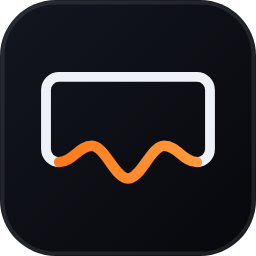
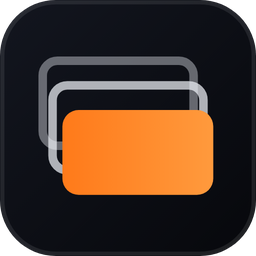
New mark: a stacked deck with the front slide lit

Changed region(s): [[0.125, 0.2188, 0.8438, 0.7812]]

diff --git a/ui.html b/ui.html
@@ -99,14 +99,15 @@
   <div class="brand">
     <svg class="mark" viewBox="0 0 64 64" fill="none" aria-hidden="true">
       <defs>
-        <linearGradient id="scWave" x1="0" y1="0" x2="1" y2="0">
+        <linearGradient id="scCard" x1="0" y1="0" x2="1" y2="0">
           <stop offset="0" stop-color="#ff7a1a"/><stop offset="1" stop-color="#ff9a3d"/>
         </linearGradient>
       </defs>
-      <path d="M 11 45 A 4 4 0 0 1 7 41 L 7 23 A 4 4 0 0 1 11 19 L 53 19 A 4 4 0 0 1 57 23 L 57 41 A 4 4 0 0 1 53 45"
-            stroke="currentColor" stroke-width="3" stroke-linecap="round"/>
-      <path d="M 53 45 C 49 45 47 40 43 40 C 39 40 36 50 32 50 C 28 50 25 40 21 40 C 17 40 15 45 11 45"
-            stroke="url(#scWave)" stroke-width="3.2" stroke-linecap="round"/>
+      <rect x="6" y="11.5" width="46" height="25.9" rx="4.5"
+            stroke="currentColor" stroke-width="2.6" stroke-opacity="0.4"/>
+      <rect x="9" y="19" width="46" height="25.9" rx="4.5"
+            stroke="currentColor" stroke-width="2.6" stroke-opacity="0.72"/>
+      <rect x="12" y="26.5" width="46" height="25.9" rx="5" fill="url(#scCard)"/>
     </svg>
     <h1>Slide<span>Cast</span></h1>
   </div>

diff --git a/README.md b/README.md
@@ -250,9 +250,9 @@ still exits 0, so the path is made absolute and the result is checked.
 
 ## Logo
 
-The mark is a slide that ends in a waveform. The frame stops at the bottom
-corners and the voice carries the edge between them, so one outline says
-both halves of the name rather than drawing a screen and a speaker.
+The mark is a deck: three 16:9 slides of the same size, the front one lit
+orange. The cards lean up-left rather than up-right, which is what keeps the
+silhouette from reading as a folder icon.
 
 | File | Use |
 |---|---|
@@ -261,10 +261,12 @@ both halves of the name rather than drawing a screen and a speaker.
 | `logo.svg` | Horizontal lockup, mark plus wordmark. Wordmark is `currentColor` and orange. |
 | `icons/*.png` | Rasters at 512/256/128/64/32. `icon`, plus `mark-on-dark` and `mark-on-light`. |
 
-Regenerate the PNGs by rendering the SVGs in headless Chrome with
-`--default-background-color=00000000`. Note that `<img>` cannot inherit
-`currentColor`, so the mark's frame colour has to be substituted into a copy of
-the SVG before rasterising.
+Regenerate the PNGs by rendering each SVG once at 512 in headless Chrome with
+`--default-background-color=00000000`, then downscaling to the smaller sizes.
+Two traps: `<img>` cannot inherit `currentColor`, so the mark's outline colour
+has to be substituted into a copy of the SVG before rasterising; and a
+`--window-size=128,128` render comes back cropped, which is why the small sizes
+are derived from the 512 rather than rendered natively.
 
 ## What this does not do
 
